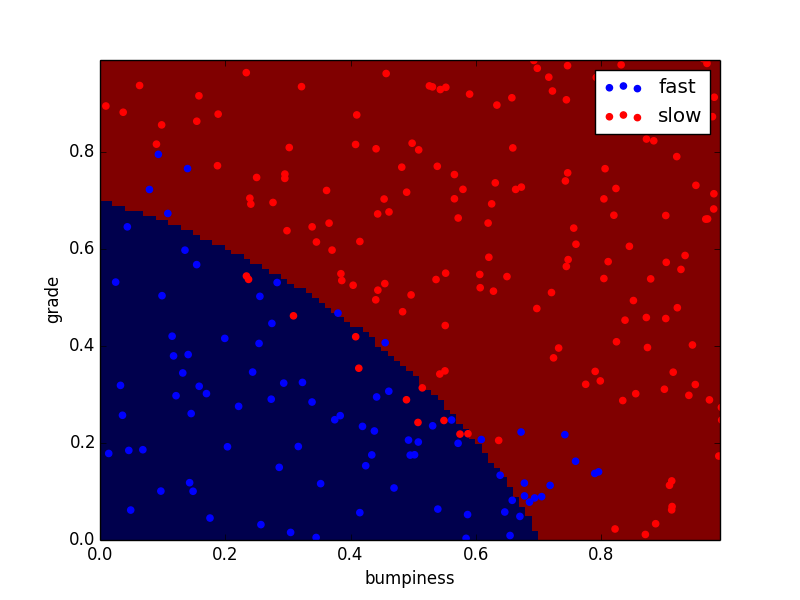
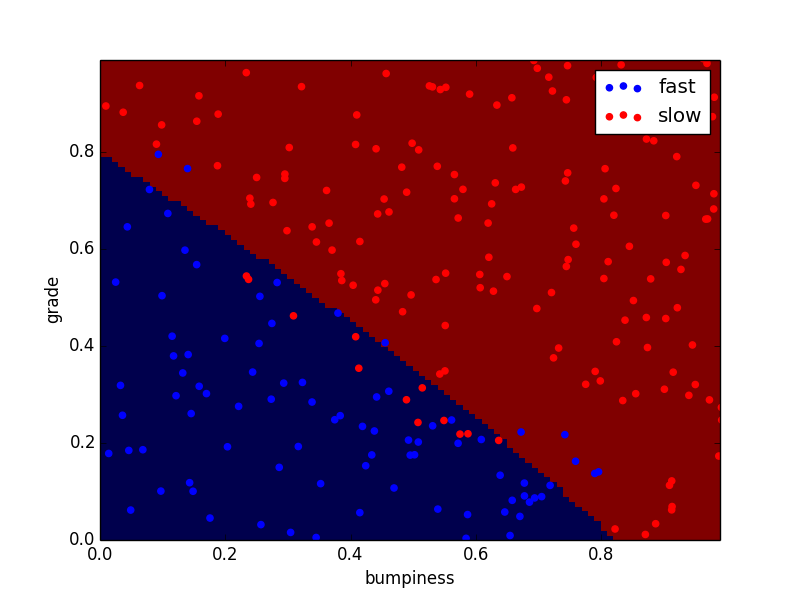
Add SVM model

diff --git a/IntroToMachineLearning/Test1_Classifier/ClassifyNB.py b/IntroToMachineLearning/Test1_Classifier/ClassifyNB.py
@@ -1,6 +1,8 @@
 
 from sklearn.naive_bayes import GaussianNB
 
+from sklearn import svm
+
 def classify(features_train, labels_train):
     ### create classifier
     ### fit the classifier on the training features and labels
@@ -8,6 +10,11 @@ def classify(features_train, labels_train):
 
 
     ### your code goes here!
-    gnb = GaussianNB()
-    model = gnb.fit(features_train,labels_train);
-    return model
+  ## Use Naive Bayes Model
+    #gnb = GaussianNB()
+    #model = gnb.fit(features_train,labels_train);
+    #return model
+  ## Use SVM Model
+    clf = svm.SVC(kernel='rbf',C=1)
+    clf.fit(features_train,labels_train)
+    return clf
